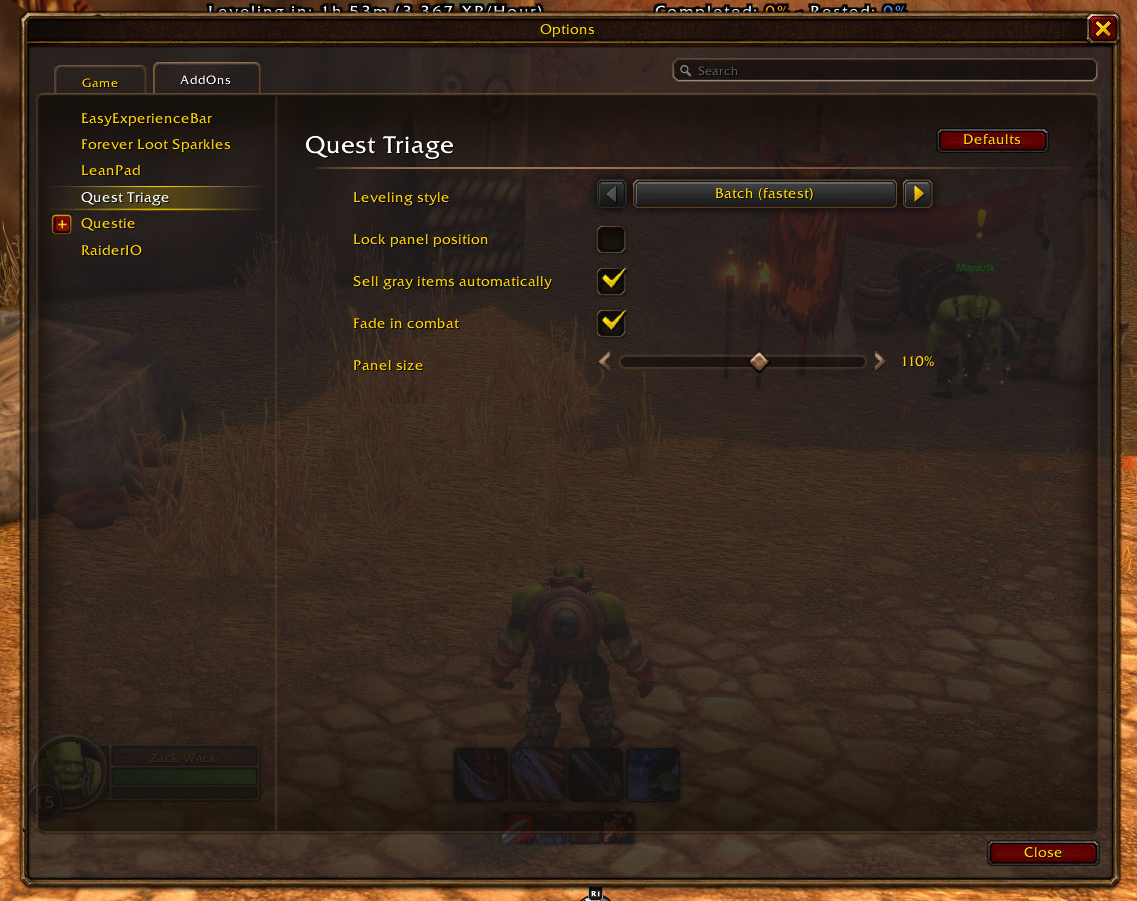
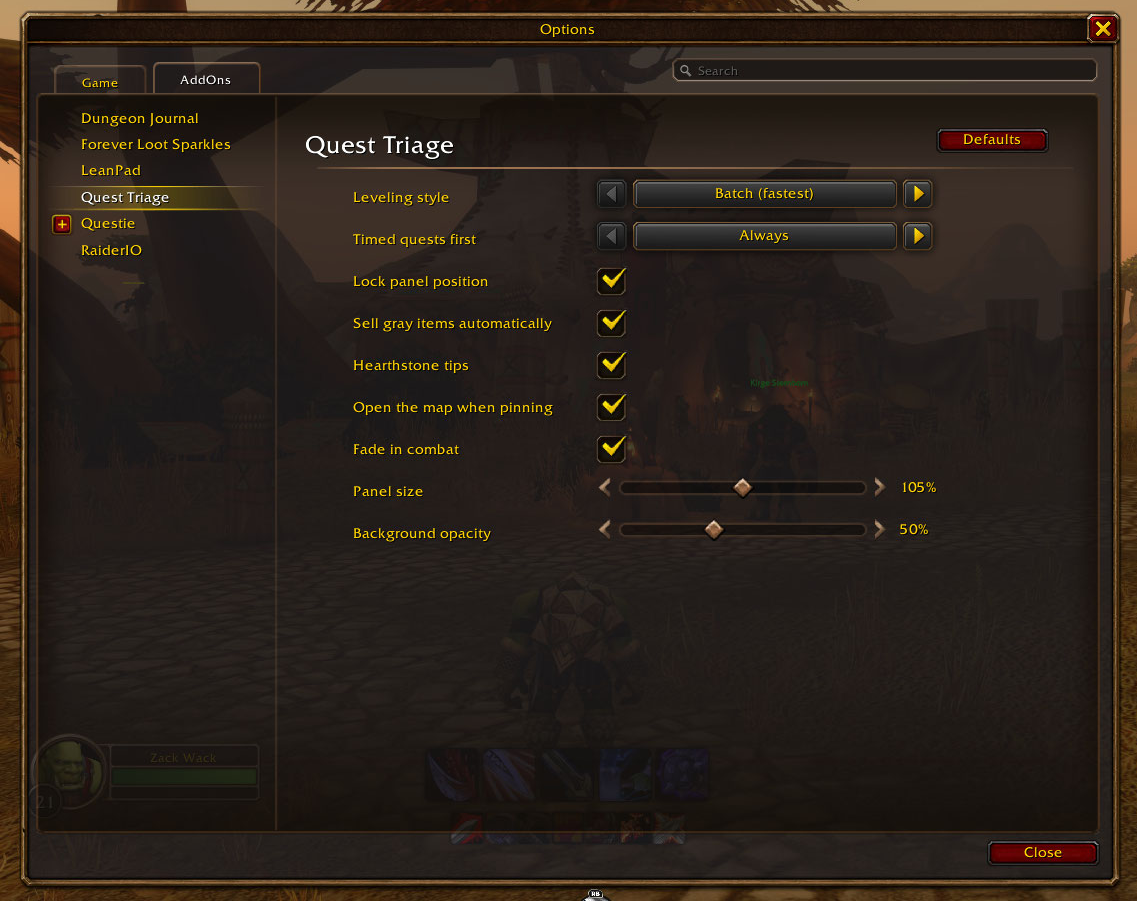
Release 0.5.7: timed quests first, event quests, opacity, quiet pins
- Timed quests (Need for a Cure) and their hand-ins come first while the timer runs, showing the minutes left; setting 'Timed quests first': always, under 30/15/5 minutes, or never.
- Event quests (Darkmoon Faire, holidays) are labelled in Pick up and never become the Next step; event hand-ins you lack the items for are left out.
- Setting 'Background opacity' (20-100%). Below 95% (the lowest at which every text color keeps 7:1 over a white sky, checked in tests) the panel's own font copies get an outline.
- Setting 'Open the map when pinning'.
- 'Suggest where to set your hearthstone' renamed 'Hearthstone tips' (it was cut off).
- README/CurseForge: features, credits (Blizzard quest markers, bundled HereBeDragons), new settings screenshot; the description generator turns every relative link into a GitHub address.

diff --git a/README.md b/README.md
@@ -15,6 +15,7 @@ Works with **Questie**: directions, nearby quest givers and monster spawn areas 
 - **Objective checklist** on the card: see what's done and what's left at a glance.
 - **Batch or one at a time.** Clear every quest in a hub before you leave and do nearby objectives in one trip, or finish, hand in, then pick up the next.
 - **Stays on track.** It sticks with the quest you're doing and finishes what you started instead of jumping around.
+- **Timed quests first.** Need for a Cure and other quests with a timer jump to the top, with the minutes left. Prefer them only near the end, or never? It's a setting.
 
 ![The Next card in a quest hub: Hand in Raptor Thieves to Gazrog, 2 more to do here](docs/images/batch-hub.jpg)
 
@@ -25,9 +26,9 @@ Works with **Questie**: directions, nearby quest givers and monster spawn areas 
 **Turn in · Do now · Pick up · Needs a group · Save for later · Drop**, each with a one-line reason. Hover any line for the objectives, the reason and the exact location; click to pin it on your map.
 
 - **Quest items in your bags**: an item that starts a quest you don't have yet becomes the next step, "Open" it.
-- **Nearby quests you haven't picked up yet**, worth doing at your level, nearest first. Talk to a quest giver and it checks what they really offer you: a follow-up you can't take yet drops off the list until you can.
+- **Nearby quests you haven't picked up yet**, worth doing at your level, nearest first. Event quests (Darkmoon Faire and holidays) are listed with the event's name but never pull you off your route. Talk to a quest giver and it checks what they really offer you: a follow-up you can't take yet drops off the list until you can.
 - **Save for later** shows the level to come back at; **Drop** flags grey and failed quests.
-- **Knows the game's quest areas**: inside the white boundary on your minimap it says "do it here".
+- **Knows the game's quest areas**: it points where Blizzard itself marks the quest on your map, and inside the white boundary on your minimap it says "do it here".
 - **Catches blocked quests**: needs an item first? It says where and how to get it, with two map markers.
 - **Real hunting grounds**, not a lone spawn at the edge of the map; if kills are slow, it suggests a denser spot.
 
@@ -41,7 +42,7 @@ Works with **Questie**: directions, nearby quest givers and monster spawn areas 
 
 ## Level faster and get stronger
 
-- **Gear upgrades** from quest rewards and your bags, judged on real stats for your class (never cloth for a Warrior). One click to equip.
+- **Gear upgrades** from quest rewards and your bags, judged on real stats for your class (never cloth for a Warrior). One click to equip. A two-hander has to beat your weapon and shield together, and right-click stops an item you don't want.
 - **Trainer spells** read from your spellbook: it tells you when new spells unlock, so no wasted trips.
 - **Learns from your deaths**: die twice on the same quest and it moves to Save for later.
 - **Death handling**: release, run back with the arrow, resurrect, carry on.
@@ -56,11 +57,11 @@ Works with **Questie**: directions, nearby quest givers and monster spawn areas 
 
 ## Easy to read
 
-Readable colors (7:1 contrast), every line one row, details on hover, adjustable size, and it fades in combat so it never blocks the fight.
+Readable colors (7:1 contrast), every line one row, details on hover, adjustable size and background opacity (see-through text gets a dark outline, so it stays readable over anything), and it fades in combat so it never blocks the fight.
 
-![Quest Triage settings: leveling style Batch (fastest), lock panel position, sell gray items automatically, fade in combat, and panel size](docs/images/settings.png)
+![Quest Triage settings: leveling style Batch (fastest), timed quests first Always, lock panel position, sell gray items automatically, hearthstone tips, open the map when pinning, fade in combat, panel size and background opacity](docs/images/settings.png)
 
-*Simple settings in the game's own Options window: Batch or one at a time, auto-sell greys, lock, size, combat fade.*
+*Simple settings in the game's own Options window: Batch or one at a time, when timed quests go first, auto-sell greys, opening the map when you pin, lock, size, background opacity, combat fade.*
 
 ## How to use
 
@@ -99,10 +100,10 @@ On GitHub: https://github.com/tamuir/QuestTriage/issues. Type `/qt debug`: a win
 
 ## Credits
 
-Directions and quest data come from [Questie](https://github.com/Questie/Questie) and QuestieDB, read at runtime from your own install; Quest Triage contains none of their code or data. Map positions use Questie's copy of HereBeDragons. Thank you to the Questie team and contributors. Open source under [GPL-3.0](LICENSE.md).
+Where to do your quests comes from the game's own quest markers whenever it has them. Quests to pick up, turn-in NPCs, missing items and hunting spots come from [Questie](https://github.com/Questie/Questie) and QuestieDB, read at runtime from your own install; Quest Triage contains none of their code or data. Map pins and distances use [HereBeDragons](https://github.com/Nevcairiel/HereBeDragons) by Nevcairiel (BSD), bundled unmodified with LibStub and CallbackHandler from Ace3 (see [Libs/LICENSES.md](Libs/LICENSES.md)). Thank you to the Questie team and contributors, to Nevcairiel and to the Ace3 team. Open source under [GPL-3.0](LICENSE.md).
 
 ## Development
 
-- Code: `Core.lua` (decisions, no game API, fully tested), `Api.lua` (reads the game), `Guide.lua` (Questie data and map pins), `UI.lua` (panel, events, options).
+- Code: `Core.lua` (decisions, no game API, fully tested), `Api.lua` (reads the game), `Guide.lua` (Questie data, Blizzard quest markers and map pins), `UI.lua` (panel, events, options), `Libs/` (bundled libraries, unmodified).
 - Tests: `sh run-tests.sh` syntax-checks every file and runs `tests.lua` under Lua 5.1 in Docker.
 - Releases: add a dated section such as `## [0.5.1] - 2026-11-10` to `CHANGELOG.md` and push; GitHub Actions runs the tests, tags the version, and uploads the zip to GitHub Releases and CurseForge.

diff --git a/CURSEFORGE-DESCRIPTION.md b/CURSEFORGE-DESCRIPTION.md
@@ -11,6 +11,7 @@ Works with **Questie**: directions, nearby quest givers and monster spawn areas 
 - **Objective checklist** on the card: see what's done and what's left at a glance.
 - **Batch or one at a time.** Clear every quest in a hub before you leave and do nearby objectives in one trip, or finish, hand in, then pick up the next.
 - **Stays on track.** It sticks with the quest you're doing and finishes what you started instead of jumping around.
+- **Timed quests first.** Need for a Cure and other quests with a timer jump to the top, with the minutes left. Prefer them only near the end, or never? It's a setting.
 
 ![The Next card in a quest hub: Hand in Raptor Thieves to Gazrog, 2 more to do here](https://raw.githubusercontent.com/tamuir/QuestTriage/main/docs/images/batch-hub.jpg)
 
@@ -21,9 +22,9 @@ Works with **Questie**: directions, nearby quest givers and monster spawn areas 
 **Turn in · Do now · Pick up · Needs a group · Save for later · Drop**, each with a one-line reason. Hover any line for the objectives, the reason and the exact location; click to pin it on your map.
 
 - **Quest items in your bags**: an item that starts a quest you don't have yet becomes the next step, "Open" it.
-- **Nearby quests you haven't picked up yet**, worth doing at your level, nearest first. Talk to a quest giver and it checks what they really offer you: a follow-up you can't take yet drops off the list until you can.
+- **Nearby quests you haven't picked up yet**, worth doing at your level, nearest first. Event quests (Darkmoon Faire and holidays) are listed with the event's name but never pull you off your route. Talk to a quest giver and it checks what they really offer you: a follow-up you can't take yet drops off the list until you can.
 - **Save for later** shows the level to come back at; **Drop** flags grey and failed quests.
-- **Knows the game's quest areas**: inside the white boundary on your minimap it says "do it here".
+- **Knows the game's quest areas**: it points where Blizzard itself marks the quest on your map, and inside the white boundary on your minimap it says "do it here".
 - **Catches blocked quests**: needs an item first? It says where and how to get it, with two map markers.
 - **Real hunting grounds**, not a lone spawn at the edge of the map; if kills are slow, it suggests a denser spot.
 
@@ -37,7 +38,7 @@ Works with **Questie**: directions, nearby quest givers and monster spawn areas 
 
 ## Level faster and get stronger
 
-- **Gear upgrades** from quest rewards and your bags, judged on real stats for your class (never cloth for a Warrior). One click to equip.
+- **Gear upgrades** from quest rewards and your bags, judged on real stats for your class (never cloth for a Warrior). One click to equip. A two-hander has to beat your weapon and shield together, and right-click stops an item you don't want.
 - **Trainer spells** read from your spellbook: it tells you when new spells unlock, so no wasted trips.
 - **Learns from your deaths**: die twice on the same quest and it moves to Save for later.
 - **Death handling**: release, run back with the arrow, resurrect, carry on.
@@ -52,11 +53,11 @@ Works with **Questie**: directions, nearby quest givers and monster spawn areas 
 
 ## Easy to read
 
-Readable colors (7:1 contrast), every line one row, details on hover, adjustable size, and it fades in combat so it never blocks the fight.
+Readable colors (7:1 contrast), every line one row, details on hover, adjustable size and background opacity (see-through text gets a dark outline, so it stays readable over anything), and it fades in combat so it never blocks the fight.
 
-![Quest Triage settings: leveling style Batch (fastest), lock panel position, sell gray items automatically, fade in combat, and panel size](https://raw.githubusercontent.com/tamuir/QuestTriage/main/docs/images/settings.png)
+![Quest Triage settings: leveling style Batch (fastest), timed quests first Always, lock panel position, sell gray items automatically, hearthstone tips, open the map when pinning, fade in combat, panel size and background opacity](https://raw.githubusercontent.com/tamuir/QuestTriage/main/docs/images/settings.png)
 
-*Simple settings in the game's own Options window: Batch or one at a time, auto-sell greys, lock, size, combat fade.*
+*Simple settings in the game's own Options window: Batch or one at a time, when timed quests go first, auto-sell greys, opening the map when you pin, lock, size, background opacity, combat fade.*
 
 ## How to use
 
@@ -95,4 +96,4 @@ On GitHub: https://github.com/tamuir/QuestTriage/issues. Type `/qt debug`: a win
 
 ## Credits
 
-Directions and quest data come from [Questie](https://github.com/Questie/Questie) and QuestieDB, read at runtime from your own install; Quest Triage contains none of their code or data. Map positions use Questie's copy of HereBeDragons. Thank you to the Questie team and contributors. Open source under [GPL-3.0](https://github.com/tamuir/QuestTriage/blob/main/LICENSE.md).
+Where to do your quests comes from the game's own quest markers whenever it has them. Quests to pick up, turn-in NPCs, missing items and hunting spots come from [Questie](https://github.com/Questie/Questie) and QuestieDB, read at runtime from your own install; Quest Triage contains none of their code or data. Map pins and distances use [HereBeDragons](https://github.com/Nevcairiel/HereBeDragons) by Nevcairiel (BSD), bundled unmodified with LibStub and CallbackHandler from Ace3 (see [Libs/LICENSES.md](https://github.com/tamuir/QuestTriage/blob/main/Libs/LICENSES.md)). Thank you to the Questie team and contributors, to Nevcairiel and to the Ace3 team. Open source under [GPL-3.0](https://github.com/tamuir/QuestTriage/blob/main/LICENSE.md).

diff --git a/CHANGELOG.md b/CHANGELOG.md
@@ -2,6 +2,14 @@
 
 ## [Unreleased]
 
+## [0.5.7] - 2026-11-13
+
+- Timed quests (like Need for a Cure) come first: while the timer runs, the Next step is that quest or its hand-in, whatever else is nearby, and it shows the minutes left. New setting "Timed quests first": always (default), only under 30, 15 or 5 minutes left, or never.
+- Event quests (Darkmoon Faire and other holidays) show in Pick up with the event's name, but never become the Next step: they're off your leveling route. Event hand-ins you don't carry the items for are left out.
+- New setting "Background opacity" (20% to 100%): see more of the game through the panel. Below 95% every letter gets a dark outline, so the text stays readable over bright skies and snow.
+- The setting "Suggest where to set your hearthstone" is now called "Hearthstone tips" (the old name was cut off in the options window).
+- New setting "Open the map when pinning": turn it off and clicking a step just sets the pin (map, minimap and navigation arrow) without opening the map.
+
 ## [0.5.6] - 2026-11-13
 
 - `/qt debug` opens a window with the details already selected: press Ctrl+C and paste them into a bug report. It includes your Quest Triage and Questie versions.
